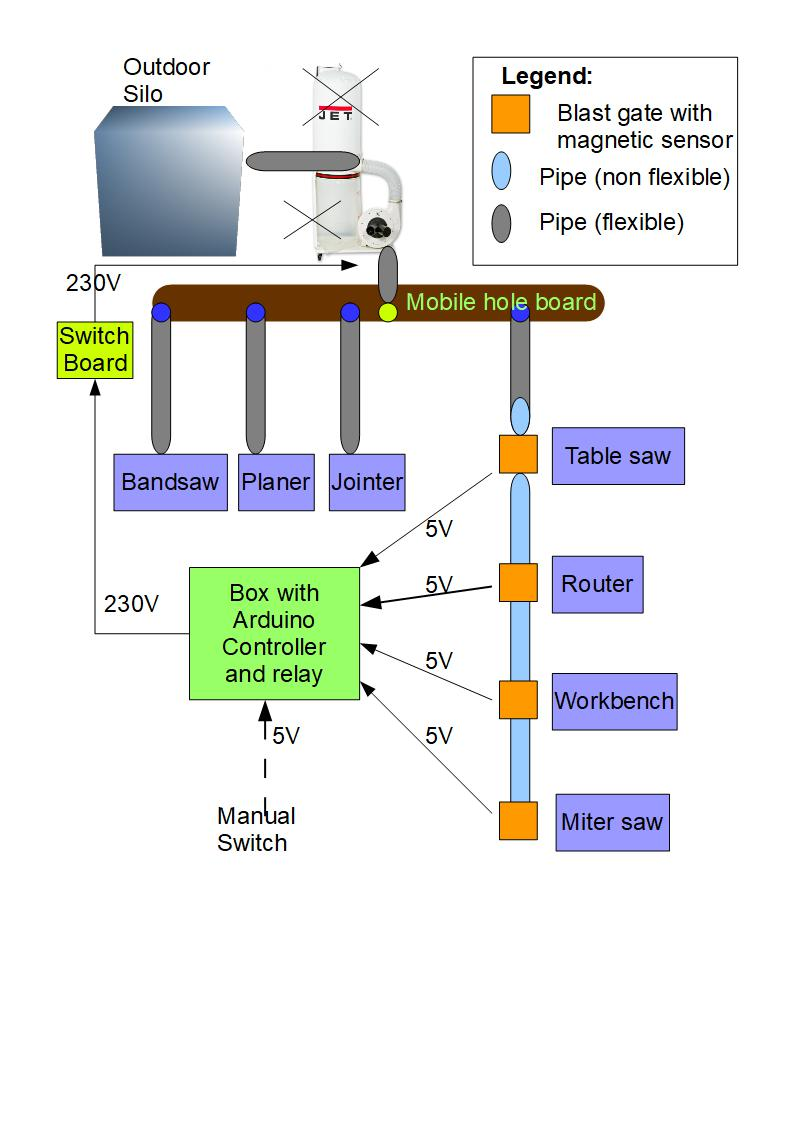
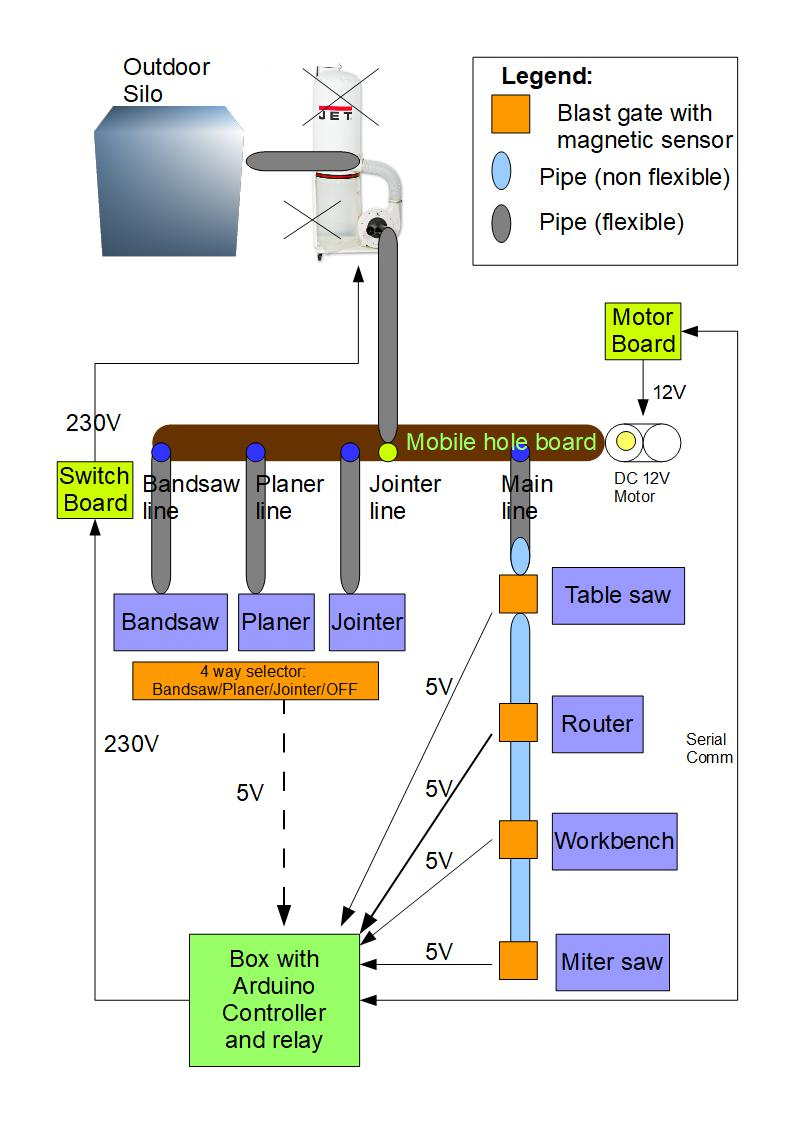
Update schema

diff --git a/Projects/DustCollectorCommander-ArduinoNano-HallSensorsA3144/README.md b/Projects/DustCollectorCommander-ArduinoNano-HallSensorsA3144/README.md
@@ -1,5 +1,5 @@
-## Subject: Control a dust collector (Jet DC110A-M 230V 1.5HP) via magnetic sensors on blast gates and/or with manual switches
-Note that the relay controled by the Arduino Nano does not control directly the dust collector: it controls a power Contacter that controls the dust collector power.
+## Subject: Control a dust collector (Jet DC110A-M 230V 1.5HP) via magnetic sensors on blast gates and/or with 4 way line selector
+Note that the relay controled by the Arduino Nano does not control directly the dust collector: it controls a power Contactor that controls the dust collector power.
 You can use regular ethernet cables (with or without rj45 connectors) to plug sensors and switches to the PCB hosting the Arduino and the relay.
 
 The magnetic detection is made with hall sensors (cheap A3144).
@@ -10,12 +10,31 @@ requires 230V wiring, that can be dangerous and cause serious injury/death/...
 ## Logical Architecture
 This schema shows the logical architecture.
 The dust collector has two crosses on it since only the blower part is used: the vortex, the bags, and the mobile cart on wheels are not used.
-In the future, the "Mobile hole board" movement will be motorized:
-1. "Mobile hole board" movement will be bound to the blast gate detector to select the main dust collection line when activated: currently I have to manually move the "mobile hole board" in front of the main line hole.
-2. The manual switch, which is now used to turn the dust collector on manually for the non-main-line dust producers
-will be replaced by an analog potentiometer (or a rotary encoder) to select which line to align with the "mobile hole board".
+The motor board for the "Mobile hole board" movement is not yet developped, but it will be based on a Arduino Nano also and a powerfull DC motor driver (Wiper motor certainly):
+1. "Mobile hole board" movement will be bound to the blast gate detector (via Serial Comm) to select the main dust collection line when activated: currently I have to manually move the "mobile hole board" in front of the main line hole.
+2. Nowadays a simple switch is used to turn the dust collector after manually having moved the "mobile hole board" for the non-main-line dust producers
+3. This simple switch will be replaced by an analog potentiometer (or a rotary encoder) to select which line to align with the "mobile hole board".
 
 ![Logical Architecture](https://github.com/vincent-bruel/arduino-and-co/blob/master/Projects/DustCollectorCommander-ArduinoNano-HallSensorsA3144/DustCollectorCommander-architecture.jpg)
+
+## Some use cases
+1. Use the Bandsaw: 
+A. Operator will turn the 4 way selector to the Bandsaw position
+B. The Arduino motor controler (AMC-board) will Turn the dust collector off (if it was on), 
+B. AMC-board will Send, via Serial Comm, an order to the Motor Board to move the "mobile hole board" in the Bandsaw line position
+C. AMC-board will Wait a few seconds for the Motor board to acomplish its task
+D. AMC-board will Turn the dust collector ON.
+E. Operator will use the Bandsaw
+F. Operator will turn the 4 way selector to the OFF position
+G. AMC-board will Turn the dust collector OFF.
+
+2. Use the Miter saw
+A. Whe assume that the 4 way selector is in the OFF position
+B. Operator will push the blast gate of the Miter saw (open position)
+C. AMC-board will Turn the dust collector ON
+D. Operator will use the miter saw
+E. Operator will push the blast gate of the Miter saw (closed position)
+F. AMC-board will Turn the dust collector OFF.
 
 ## Electrical diagram for the Arduino Dust controler
 In this diagram, only one Hall Sensor and only one manual switch are drawn to stay clear.
